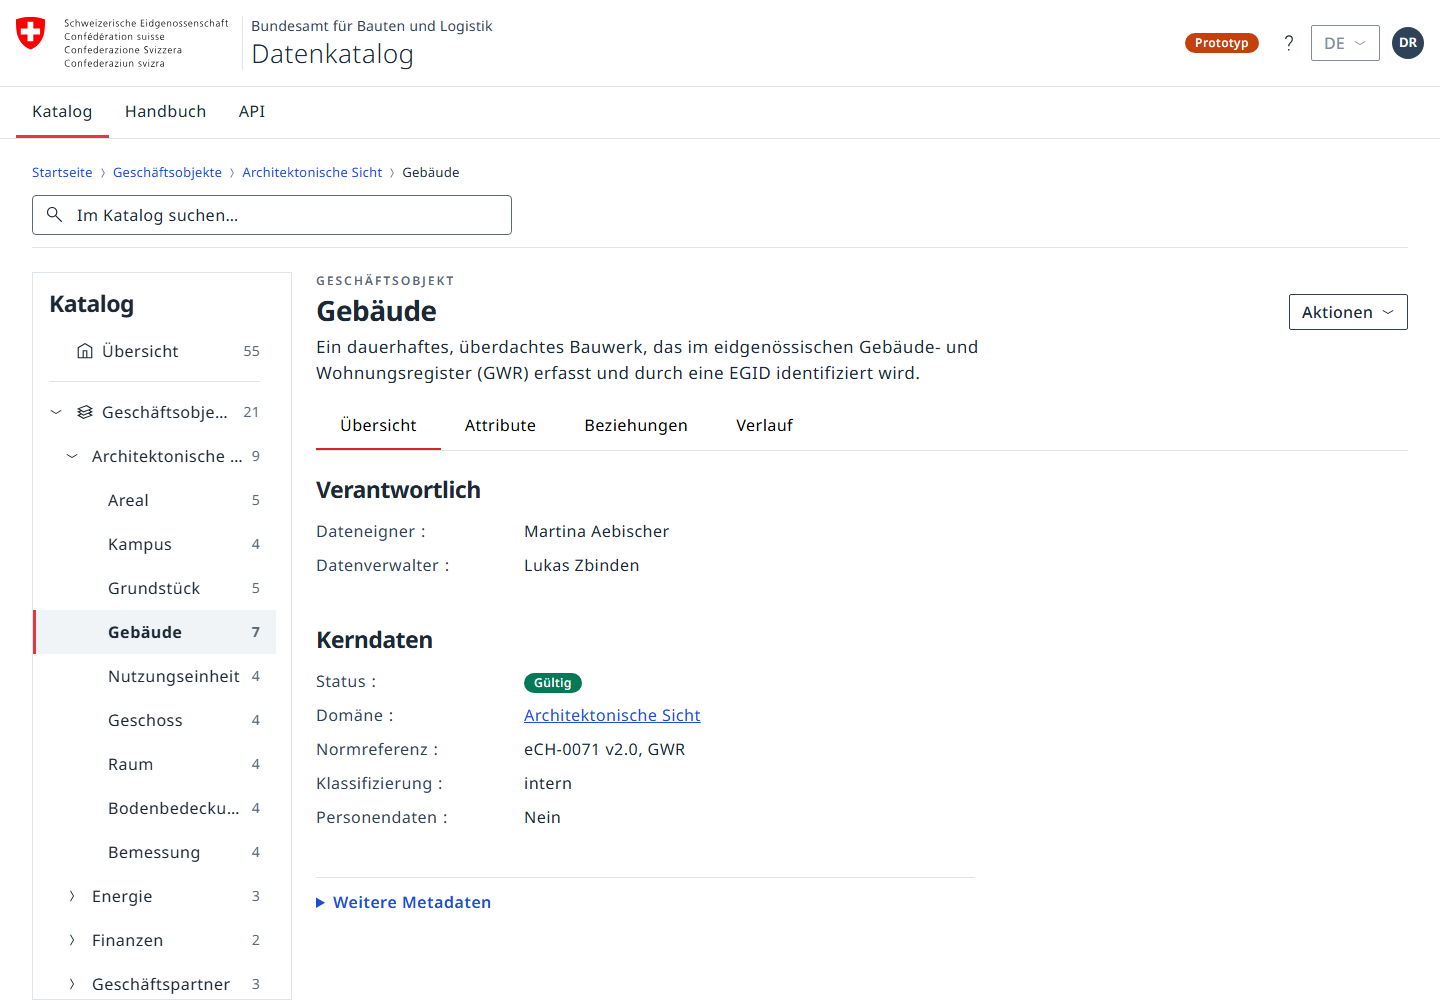
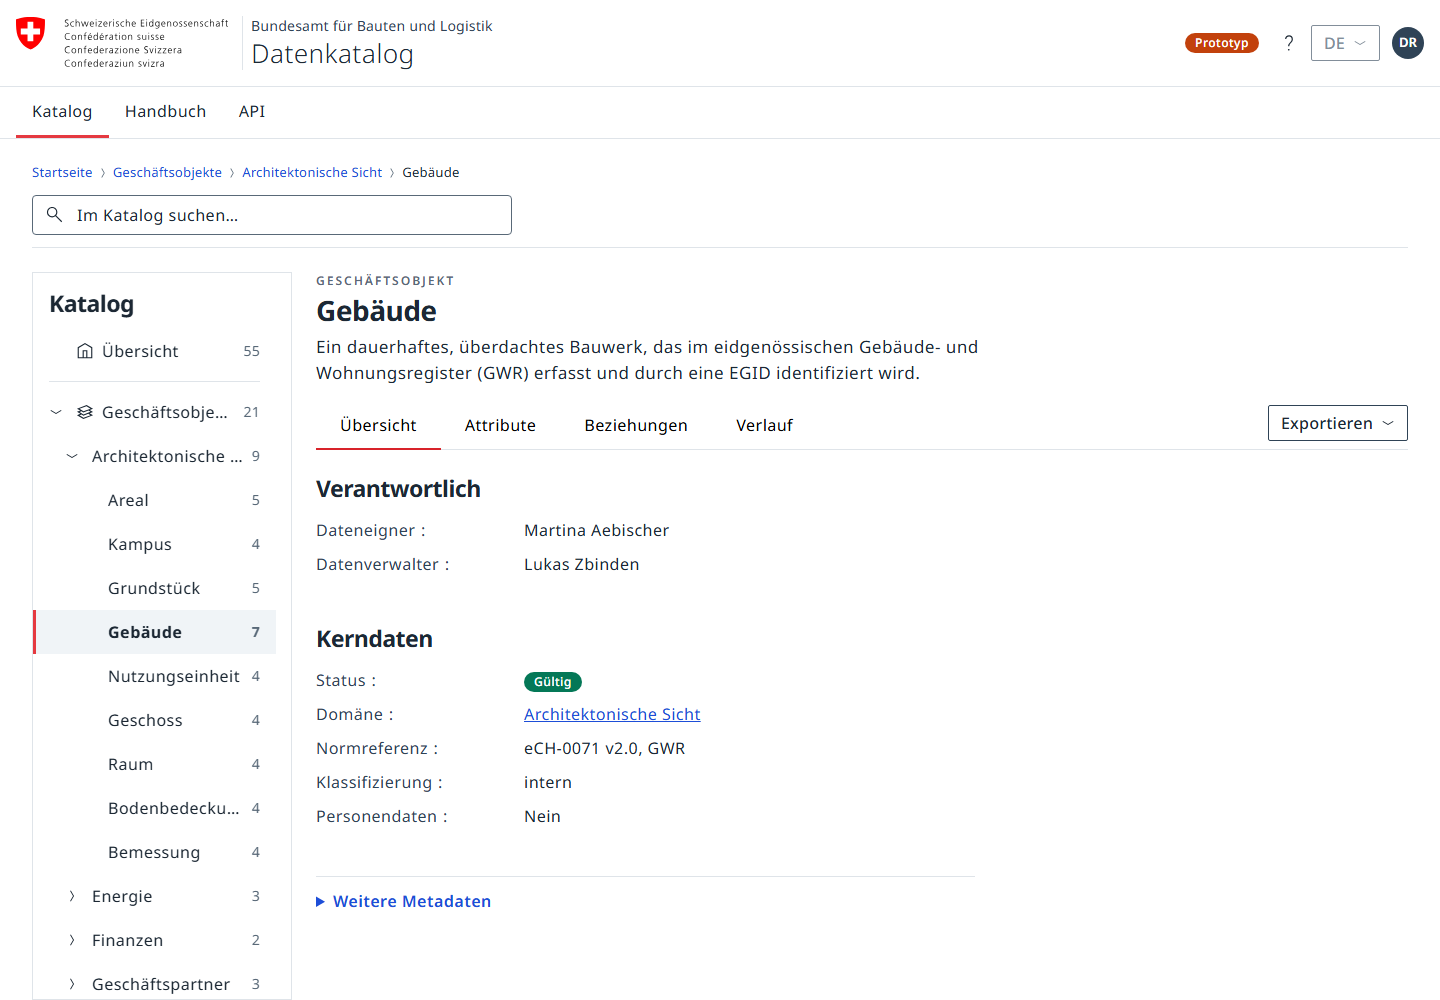
Update

diff --git a/prototype-oblique/css/main.css b/prototype-oblique/css/main.css
@@ -437,19 +437,23 @@ button.ob-tree-link { width: 100%; font: inherit; letter-spacing: inherit; }
 /* ---- View and detail headers ---------------------------------------------- */
 .ob-view-header { padding-bottom: var(--ob-space-default); }
 .ob-entity-type { margin-bottom: var(--ob-space-xs); color: var(--ob-color-text-tertiary); font-size: var(--ob-font-size-xs); font-weight: var(--ob-font-weight-semibold); letter-spacing: var(--ob-letter-spacing-caps); text-transform: uppercase; }
-.ob-title-row { display: flex; align-items: flex-start; justify-content: space-between; gap: var(--ob-space-default); }
-.ob-title-copy { flex: 1 1 auto; min-width: 0; }
+.ob-title-row, .ob-title-copy { min-width: 0; }
 .ob-title-row h1 { min-width: 0; overflow-wrap: anywhere; }
 .ob-view-description { margin-top: var(--ob-space-sm); color: var(--ob-color-text-secondary); }
 .ob-actions-menu { flex: none; }
 
-.ob-collection-controls {
+.ob-collection-controls, .ob-detail-controls {
   display: flex; flex-wrap: wrap; align-items: flex-end; gap: var(--ob-space-sm) var(--ob-space-lg);
   margin-bottom: var(--ob-space-lg); border-bottom: var(--ob-border-width-xs) solid var(--ob-color-border);
 }
-.ob-tabs-frame.ob-collection-tabs-frame { flex: 1 1 280px; min-width: 0; margin-bottom: -1px; }
-.ob-collection-tabs-frame .ob-tabs { border-bottom: 0; }
-.ob-collection-group { margin: 0 0 var(--ob-space-sm) auto; }
+.ob-tabs-frame.ob-collection-tabs-frame, .ob-tabs-frame.ob-detail-tabs-frame { flex: 1 1 280px; min-width: 0; margin-bottom: -1px; }
+.ob-collection-tabs-frame .ob-tabs, .ob-detail-tabs-frame .ob-tabs { border-bottom: 0; }
+.ob-local-actions {
+  display: flex; flex: none; flex-wrap: wrap; align-items: center; justify-content: flex-end; gap: var(--ob-space-sm);
+  margin: 0 0 var(--ob-space-sm) auto;
+}
+.ob-local-actions:empty { display: none; }
+.ob-collection-group { margin: 0; }
 
 .ob-tabs-frame { position: relative; margin-bottom: var(--ob-space-lg); overflow: hidden; }
 .ob-tabs { display: flex; border-bottom: var(--ob-border-width-xs) solid var(--ob-color-border); overflow-x: auto; overflow-y: hidden; scrollbar-width: none; }
@@ -578,6 +582,16 @@ button.ob-tree-link { width: 100%; font: inherit; letter-spacing: inherit; }
 .ob-footer-version, .ob-footer-note { margin-top: 2px; }
 .ob-footer-note { text-align: right; }
 
+/* ---- Back to top ------------------------------------------------------------ */
+.ob-back-to-top {
+  position: fixed; right: var(--ob-space-lg); bottom: var(--ob-space-lg); z-index: var(--ob-z-widget);
+  height: var(--ob-touch-target); padding: 0 var(--ob-space-default); background: var(--ob-color-bg); box-shadow: var(--ob-shadow-default);
+}
+.ob-back-to-top .ob-icon-arrow_right { transform: rotate(-90deg); }
+.ob-back-to-top:not([hidden]) + .ob-toast-region {
+  bottom: calc(var(--ob-space-lg) + var(--ob-touch-target) + var(--ob-space-sm));
+}
+
 /* ---- Toast (status messages) ------------------------------------------------ */
 .ob-toast-region { position: fixed; right: var(--ob-space-lg); bottom: var(--ob-space-lg); display: flex; flex-direction: column; gap: var(--ob-space-sm); z-index: var(--ob-z-toast); max-width: min(420px, calc(100vw - 2 * var(--ob-space-lg))); }
 .ob-alert {
@@ -661,12 +675,10 @@ button.ob-tree-link { width: 100%; font: inherit; letter-spacing: inherit; }
   .ob-mobile-navigation { margin-bottom: var(--ob-space-default); }
   .ob-mobile-navigation-button { min-height: var(--ob-touch-target); }
   .ob-view-header { padding-bottom: var(--ob-space-md); }
-  .ob-title-row { flex-wrap: wrap; gap: var(--ob-space-sm); }
-  .ob-title-copy { flex-basis: 210px; }
   .ob-actions-menu .ob-button { min-height: var(--ob-touch-target); }
-  .ob-collection-controls { gap: 0 var(--ob-space-sm); margin-bottom: var(--ob-space-default); }
-  .ob-collection-tabs-frame { flex-basis: 220px; }
-  .ob-collection-group { margin-bottom: var(--ob-space-sm); }
+  .ob-collection-controls, .ob-detail-controls { gap: 0 var(--ob-space-sm); margin-bottom: var(--ob-space-default); }
+  .ob-tabs-frame.ob-collection-tabs-frame, .ob-tabs-frame.ob-detail-tabs-frame { flex-basis: 100%; }
+  .ob-local-actions { order: -1; flex: 1 0 100%; margin: 0 0 var(--ob-space-sm); }
   .ob-tabs-frame { margin-bottom: var(--ob-space-default); }
   .ob-tab { min-height: var(--ob-touch-target); padding: var(--ob-space-sm) var(--ob-space-default); }
   .ob-detail-sections { gap: var(--ob-space-lg); }
@@ -710,7 +722,12 @@ button.ob-tree-link { width: 100%; font: inherit; letter-spacing: inherit; }
   .ob-swagger .swagger-ui .opblock .opblock-summary-path-description-wrapper { min-width: 0; flex: 1 1 calc(100% - 76px); }
   .ob-swagger .swagger-ui .opblock .opblock-summary-description { flex-basis: 100%; }
   .ob-footer { padding: var(--ob-space-lg) var(--ob-space-default); }
+  .ob-back-to-top { right: var(--ob-space-default); bottom: var(--ob-space-default); width: var(--ob-touch-target); padding: 0; }
+  .ob-back-to-top span:last-child { display: none; }
   .ob-toast-region { right: var(--ob-space-default); bottom: var(--ob-space-default); max-width: calc(100vw - 2 * var(--ob-space-default)); }
+  .ob-back-to-top:not([hidden]) + .ob-toast-region {
+    bottom: calc(var(--ob-space-default) + var(--ob-touch-target) + var(--ob-space-sm));
+  }
 }
 @media (max-width: 360px) {
   .ob-header-app { font-size: var(--ob-font-size-md); }
@@ -720,7 +737,7 @@ button.ob-tree-link { width: 100%; font: inherit; letter-spacing: inherit; }
 /* ---- Print ------------------------------------------------------------------- */
 @media print {
   body { background: #fff; color: #000; font-size: 11pt; }
-  .ob-header-tools, .ob-main-nav, .ob-breadcrumb, .ob-toolbar, .ob-tree-panel, .ob-footer, .ob-toast-region,
+  .ob-header-tools, .ob-main-nav, .ob-breadcrumb, .ob-toolbar, .ob-tree-panel, .ob-footer, .ob-back-to-top, .ob-toast-region,
   .ob-tabs-frame, .ob-pager, .ob-skip-link, .ob-mobile-navigation, .ob-drawer-backdrop, .ob-actions-menu, .ob-relation-view-switch { display: none !important; }
   .ob-main { max-width: none; padding: 0; }
   .ob-catalog, .ob-manual { display: block; }

diff --git a/prototype-oblique/js/views.js b/prototype-oblique/js/views.js
@@ -94,9 +94,11 @@
       groups: [], columns: [], groupOptions: [], groupLabel: '', groupBy: null, actions: [], crumbs: [], title: '',
     };
     if (ctx.isList) {
-      const g = state.groupBy[route.kind] || data.defaultGroup(route.kind);
+      const requestedGroup = state.groupBy[route.kind] || data.defaultGroup(route.kind);
+      const availableGroups = data.groupOptions(route.kind);
+      const g = availableGroups.some(o => o.id === requestedGroup) ? requestedGroup : data.defaultGroup(route.kind);
       ctx.groupBy = g;
-      ctx.groupOptions = data.groupOptions(route.kind).map(o => Object.assign(o, { active: o.id === g }));
+      ctx.groupOptions = availableGroups.map(o => Object.assign(o, { active: o.id === g }));
       ctx.groupLabel = (ctx.groupOptions.find(o => o.id === g) || ctx.groupOptions[0] || { label: '' }).label;
       ctx.groups = data.buildGroups(route.kind, g, ctx.mode === 'table').map(x => Object.assign(x, { open: !state.closed[x.id] }));
       ctx.columns = data.columns(route.kind);
@@ -131,7 +133,7 @@
         case 'tables': { const sy = data.sysOf(e.system); crumbs.push(container ? sec('systems') : sec('tables'), ent('systems', sy.identifier, sy.name), { label: `${e.name} (${e.technicalName})` }); break; }
         case 'products': crumbs.push(sec('products'), ent('domains', dom.identifier, dom.name), { label: e.name }); break;
         case 'apis': crumbs.push(sec('apis'), { label: `${e.name} ${e.version}` }); break;
-        case 'refs': crumbs.push(sec('refs'), { label: e.sourceAuthority, href: router.listHref('refs') }, { label: e.name }); break;
+        case 'refs': crumbs.push(sec('refs'), ent('domains', dom.identifier, dom.name), { label: e.name }); break;
         case 'domains': crumbs.push(container ? sec('domains') : sec('objects'), { label: e.name }); break;
         case 'systems': crumbs.push(container ? sec('systems') : sec('tables'), { label: e.name }); break;
       }
@@ -176,13 +178,13 @@
     if (!ctx.actions.length) return '';
     const open = ctx.state.menu === 'actions';
     const menu = open ? `<div class="ob-menu ob-menu--wide" role="menu">${ctx.actions.map(a => `<button type="button" role="menuitem" class="ob-menu-item" data-action="export" data-export="${esc(a.id)}" data-label="${esc(a.label)}">${esc(a.label)}</button>`).join('')}</div>` : '';
-    return `<div class="ob-menu-host ob-actions-menu"><button type="button" class="ob-button" aria-haspopup="menu" aria-expanded="${open}" data-action="menu" data-menu="actions">${esc(t('toolbar.actions'))} ${icon('chevron_down', 'sm')}</button>${menu}</div>`;
+    return `<div class="ob-menu-host ob-actions-menu"><button type="button" class="ob-button" aria-haspopup="menu" aria-expanded="${open}" data-action="menu" data-menu="actions">${esc(t('toolbar.export'))} ${icon('chevron_down', 'sm')}</button>${menu}</div>`;
   };
 
   views.titleRow = function (ctx, title, eyebrow, modifier, description, descriptionClass) {
     return `<header class="ob-view-header${modifier ? ` ${modifier}` : ''}">
       ${eyebrow ? `<div class="ob-entity-type">${esc(eyebrow)}</div>` : ''}
-      <div class="ob-title-row"><div class="ob-title-copy"><h1>${esc(title)}</h1>${description ? `<p class="ob-prose ${descriptionClass || 'ob-view-description'}" title="${esc(description)}">${esc(description)}</p>` : ''}</div>${views.actionsMenu(ctx)}</div>
+      <div class="ob-title-row"><div class="ob-title-copy"><h1>${esc(title)}</h1>${description ? `<p class="ob-prose ${descriptionClass || 'ob-view-description'}" title="${esc(description)}">${esc(description)}</p>` : ''}</div></div>
     </header>`;
   };
 
@@ -208,7 +210,7 @@
     const tabs = modes.map(([id, label]) => `<button type="button" role="tab" id="view-tab-${id}" class="ob-tab ob-view-tab" aria-selected="${ctx.mode === id}" aria-controls="collection-view-panel" tabindex="${ctx.mode === id ? '0' : '-1'}" data-action="set-view" data-view="${id}">${esc(label)}</button>`).join('');
     return `<div class="ob-collection-controls">
       <div class="ob-tabs-frame ob-collection-tabs-frame"><div class="ob-tabs" role="tablist" aria-label="${esc(t('toolbar.view'))}">${tabs}</div></div>
-      ${views.groupMenu(ctx)}
+      <div class="ob-local-actions">${views.groupMenu(ctx)}${views.actionsMenu(ctx)}</div>
     </div>`;
   };
 
@@ -253,7 +255,7 @@
         });
         return;
       }
-      const gBy = { objects: 'domain', tables: 'system', refs: 'source', products: 'domain', apis: 'domain' }[sec];
+      const gBy = { objects: 'domain', tables: 'system', refs: 'domain', products: 'domain', apis: 'domain' }[sec];
       data.buildGroups(sec, gBy).forEach(g => {
         const gOpen = !!state.treeOpen[g.id] || (!!treeE && treeE.kind === sec && g.items.some(i => i.identifier === treeE.id));
         const cont = gBy === 'domain' ? ['domains', data.domains.find(d => d.name === g.title)] : gBy === 'system' ? ['systems', data.systems.find(s => s.name === g.title)] : null;
@@ -422,7 +424,7 @@
       if (route.view === 'home') content = views.home(ctx);
       else if (route.view === 'list') content = `${views.collectionHeader(ctx)}${views.collectionControls(ctx)}<div id="collection-view-panel" role="tabpanel" aria-labelledby="view-tab-${ctx.mode}" tabindex="0">${views.list(ctx)}</div>`;
       else if (route.view === 'search') content = views.viewHeader(ctx) + views.searchResults(ctx);
-      else if (route.view === 'detail') content = views.entityHeader(ctx) + DK.detail.render(route.entity, route, state);
+      else if (route.view === 'detail') content = views.entityHeader(ctx) + DK.detail.render(route.entity, route, state, views.actionsMenu(ctx));
       else content = views.viewHeader(ctx) + views.notFound();
       const path = ctx.crumbs.slice(1).map(c => c.label).join(' / ');
       body = views.toolbar(ctx) + views.drawerToggle('catalog-navigation', t('tree.open'), path, state) + `<div class="ob-catalog"><section class="ob-content">${content}</section>${views.tree(route, state)}</div>${views.drawerBackdrop(state)}`;

diff --git a/prototype-oblique/js/app.js b/prototype-oblique/js/app.js
@@ -112,6 +112,7 @@
     document.title = `${ctx.title} – ${data.config.app.name} ${data.config.app.organisation}`;
     requestAnimationFrame(revealActiveTab);
     scheduleTreeViewport();
+    updateBackToTop();
     if (route.view === 'api') requestAnimationFrame(renderSwagger);
   };
 
@@ -129,6 +130,20 @@
         panel.style.setProperty('--ob-tree-available-height', `${Math.max(160, Math.floor(window.innerHeight - top))}px`);
       });
     });
+  }
+
+  function updateBackToTop() {
+    const button = $('back-to-top');
+    if (!button) return;
+    const threshold = Math.max(400, window.innerHeight * 0.75);
+    const shouldBeHidden = window.scrollY <= threshold;
+    if (button.hidden !== shouldBeHidden) button.hidden = shouldBeHidden;
+  }
+
+  function backToTop() {
+    const reducedMotion = window.matchMedia('(prefers-reduced-motion: reduce)').matches;
+    window.scrollTo({ top: 0, behavior: reducedMotion ? 'auto' : 'smooth' });
+    requestAnimationFrame(() => $('main').focus({ preventScroll: true }));
   }
 
   function renderSwagger() {
@@ -253,6 +268,7 @@
   }
   function onScroll() {
     scheduleTreeViewport();
+    updateBackToTop();
     if (!route || route.view !== 'manual' || hbLock) return;
     let cur = data.manual.chapters[0].id;
     data.manual.chapters.forEach(c => { const el = $('hb-' + c.id); if (el && el.getBoundingClientRect().top <= 120) cur = c.id; });
@@ -273,6 +289,7 @@
     const key = el.dataset.key;
     switch (el.dataset.action) {
       case 'skip': e.preventDefault(); $('main').focus(); return;
+      case 'back-to-top': e.preventDefault(); backToTop(); return;
       case 'help-toggle': e.stopPropagation(); state.menu = state.menu === 'info' ? null : 'info'; state.suggest = false; app.render(); renderHelp(); return;
       case 'menu': e.stopPropagation(); state.menu = state.menu === el.dataset.menu ? null : el.dataset.menu; state.suggest = false; app.render(); renderHelp(); return;
       case 'set-group': state.groupBy[route.kind] = el.dataset.group; state.closed = {}; state.menu = null; router.replaceParams({ group: el.dataset.group }); app.render(); return;
@@ -395,6 +412,9 @@
     $('brand-app').textContent = cfg.app.name;
     $('header-tools').innerHTML = views.headerTools(state);
     $('footer').innerHTML = views.footer();
+    const backToTopButton = $('back-to-top');
+    backToTopButton.setAttribute('aria-label', t('backToTop.aria'));
+    backToTopButton.innerHTML = `${ui.icon('arrow_right', 'sm')}<span>${ui.esc(t('backToTop.label'))}</span>`;
 
     const phoneMedia = window.matchMedia('(max-width: 600px)');
     state.isPhone = phoneMedia.matches;
@@ -415,6 +435,7 @@
     document.addEventListener('pointercancel', onPointerUp);
     window.addEventListener('scroll', onScroll, { passive: true });
     window.addEventListener('resize', scheduleTreeViewport, { passive: true });
+    window.addEventListener('resize', updateBackToTop, { passive: true });
     window.addEventListener('hashchange', app.onRoute);
 
     app.onRoute();

diff --git a/prototype-oblique/js/detail.js b/prototype-oblique/js/detail.js
@@ -23,10 +23,10 @@
     return detail.tabs(e).some(x => x[0] === tab) ? tab : 'overview';
   };
 
-  detail.render = function (e, route, state) {
+  detail.render = function (e, route, state, actionsHtml) {
     const tabs = detail.tabs(e);
     const tab = detail.resolveTab(e, route.params.tab);
-    const tabsHtml = `<div class="ob-tabs-frame"><div class="ob-tabs" role="tablist">${tabs.map(([id, label]) => `<button type="button" role="tab" id="tab-${id}" class="ob-tab" aria-selected="${tab === id}" aria-controls="panel-${id}" tabindex="${tab === id ? '0' : '-1'}" data-action="set-tab" data-tab="${id}">${esc(label)}</button>`).join('')}</div></div>`;
+    const tabsHtml = `<div class="ob-detail-controls"><div class="ob-tabs-frame ob-detail-tabs-frame"><div class="ob-tabs" role="tablist">${tabs.map(([id, label]) => `<button type="button" role="tab" id="tab-${id}" class="ob-tab" aria-selected="${tab === id}" aria-controls="panel-${id}" tabindex="${tab === id ? '0' : '-1'}" data-action="set-tab" data-tab="${id}">${esc(label)}</button>`).join('')}</div></div><div class="ob-local-actions">${actionsHtml || ''}</div></div>`;
     let panel;
     if (tab === 'overview') panel = detail.overview(e);
     else if (tab === 'rows') panel = detail.rows(e, route, state);

diff --git a/prototype-oblique/js/data.js b/prototype-oblique/js/data.js
@@ -161,7 +161,7 @@
   const GROUP_IDS = {
     objects: ['none', 'domain', 'resp', 'status'],
     tables: ['none', 'system', 'domain', 'status'],
-    refs: ['none', 'source', 'domain', 'status'],
+    refs: ['none', 'domain', 'status'],
     products: ['none', 'domain', 'access', 'status'],
     apis: ['none', 'domain', 'system', 'status'],
     domains: ['none', 'resp'],
@@ -169,7 +169,7 @@
   };
   data.defaultGroup = function (kind) {
     if (kind === 'objects') return data.config.defaultGrouping || 'domain';
-    return { tables: 'system', refs: 'source' }[kind] || 'none';
+    return { tables: 'system', refs: 'domain' }[kind] || 'none';
   };
   data.groupOptions = function (kind) {
     return (GROUP_IDS[kind] || []).map(id => ({ id, label: t('group.' + id) }));

diff --git a/prototype-oblique/index.html b/prototype-oblique/index.html
@@ -33,6 +33,7 @@
   </main>
 
   <footer class="ob-footer" id="footer"></footer>
+  <button type="button" class="ob-button ob-back-to-top" id="back-to-top" data-action="back-to-top" aria-controls="main" hidden></button>
   <div class="ob-toast-region" id="toasts" role="status" aria-live="polite"></div>
 
   <script src="vendor/swagger-ui/swagger-ui-bundle.js"></script>

diff --git a/prototype-oblique/docs/design-review-responsive.md b/prototype-oblique/docs/design-review-responsive.md
@@ -203,7 +203,8 @@ Recommendation:
 - Do not remove the page's `h1`.
 - For non-detail pages, simplify the component to a normal page title with a smaller responsive gap.
 - For detail pages, move the entity identity into `.ob-content`, above the tabs, so it stays visually associated with the profile rather than the catalog tree.
-- Move the detail **Aktionen** control into that entity-header row.
+- Keep the entity-header row focused on identity and description.
+- Rename the export-only **Aktionen** control to **Exportieren** and place it in a page-local control row beside the tabs. Keep it outside the tablist and out of the global `.ob-main-nav`.
 - Keep the global search separate from entity identity. On smaller screens it can collapse to a search control or remain as a full-width row.
 
 This is preferable to globally deleting the header because lists, search, handbook, API, and not-found pages still need a clear page title.
@@ -298,9 +299,9 @@ Global search
 
 +----------------------+  +---------------------------------------------+
 | Catalog tree         |  | DOMÄNE                                      |
-|                      |  | Architektonische Sicht          [Aktionen] |
+|                      |  | Architektonische Sicht                     |
 |                      |  |---------------------------------------------|
-|                      |  | Übersicht | Geschäftsobjekte | ...          |
+|                      |  | Übersicht | Geschäftsobjekte | [Exportieren]|
 |                      |  |                                             |
 |                      |  | Physische Gebäudehierarchie ...             |
 |                      |  |                                             |
@@ -318,7 +319,8 @@ Breadcrumb
 [Katalog öffnen] [Suchen]
 
 GESCHÄFTSOBJEKT
-Gebäude                                      [Aktionen]
+Gebäude
+[Exportieren]
 Scrollable tabs with overflow cue
 
 Lead description

diff --git a/prototype-oblique/docs/design-system.md b/prototype-oblique/docs/design-system.md
@@ -63,6 +63,8 @@ All three agree on the palette, the type scale and the shadows. Where they diffe
 
 Master layout (header with logo and app title, main navigation, footer), breadcrumb, buttons (default, ghost, icon, pager), badge and chip, popover, dropdown menu, search field with listbox, view toggle, navigation tree, tables (zebra, hover, clickable rows), KPI cards, collapsible groups with tiles, tabs, description lists for facts, orbit graph, pagination, alert toast, empty state, handbook and API layouts, responsive rules at 905px and 600px, print stylesheet.
 
+Oblique provides general scrolling utilities, but its documentation, source component inventory and bundled Figma 15.1.2 library do not define a back-to-top UI component. The prototype therefore uses an application-specific pattern built from the standard secondary button, spacing, shadow, focus and icon tokens. It appears only after meaningful page scrolling, respects reduced-motion preferences, and uses a compact icon-only presentation on phones.
+
 Naming follows Oblique's flat kebab-case convention: `.ob-<component>-<part>`, variants as `.ob-<component>--<variant>`, states as `.is-*` or ARIA attributes (`aria-selected`, `aria-pressed`, `aria-current`, `aria-expanded`).
 
 ## Icons and fonts

diff --git a/prototype-oblique/README.md b/prototype-oblique/README.md
@@ -14,7 +14,7 @@ Data catalog prototype for the Swiss Federal Office for Buildings and Logistics 
 - Profile pages ("Steckbrief") with tabs: Übersicht, Attribute / Felder / Werte, Beziehungen (pannable and zoomable orbit graph), Verlauf
 - Search with grouped suggestions, keyboard navigation and a results page
 - Handbook (Handbuch) with chapter navigation and scroll spy, an OpenAPI 3.1 reference rendered by Swagger UI, and a help/contact popover
-- CSV export and print-to-PDF from the Aktionen menu (Excel and DCAT-AP CH exports are placeholders)
+- CSV export and print-to-PDF from the Exportieren menu (Excel and DCAT-AP CH exports are placeholders)
 - Deep-linkable hash routes: section, entity, tab, page, view mode, grouping, search query and handbook chapter are all in the URL
 - Two navigation models (entity-first or container-first tree), switched in `data/config.json` or with `?nav=container`
 - German UI, i18n-ready (all strings in `data/i18n.json`)
